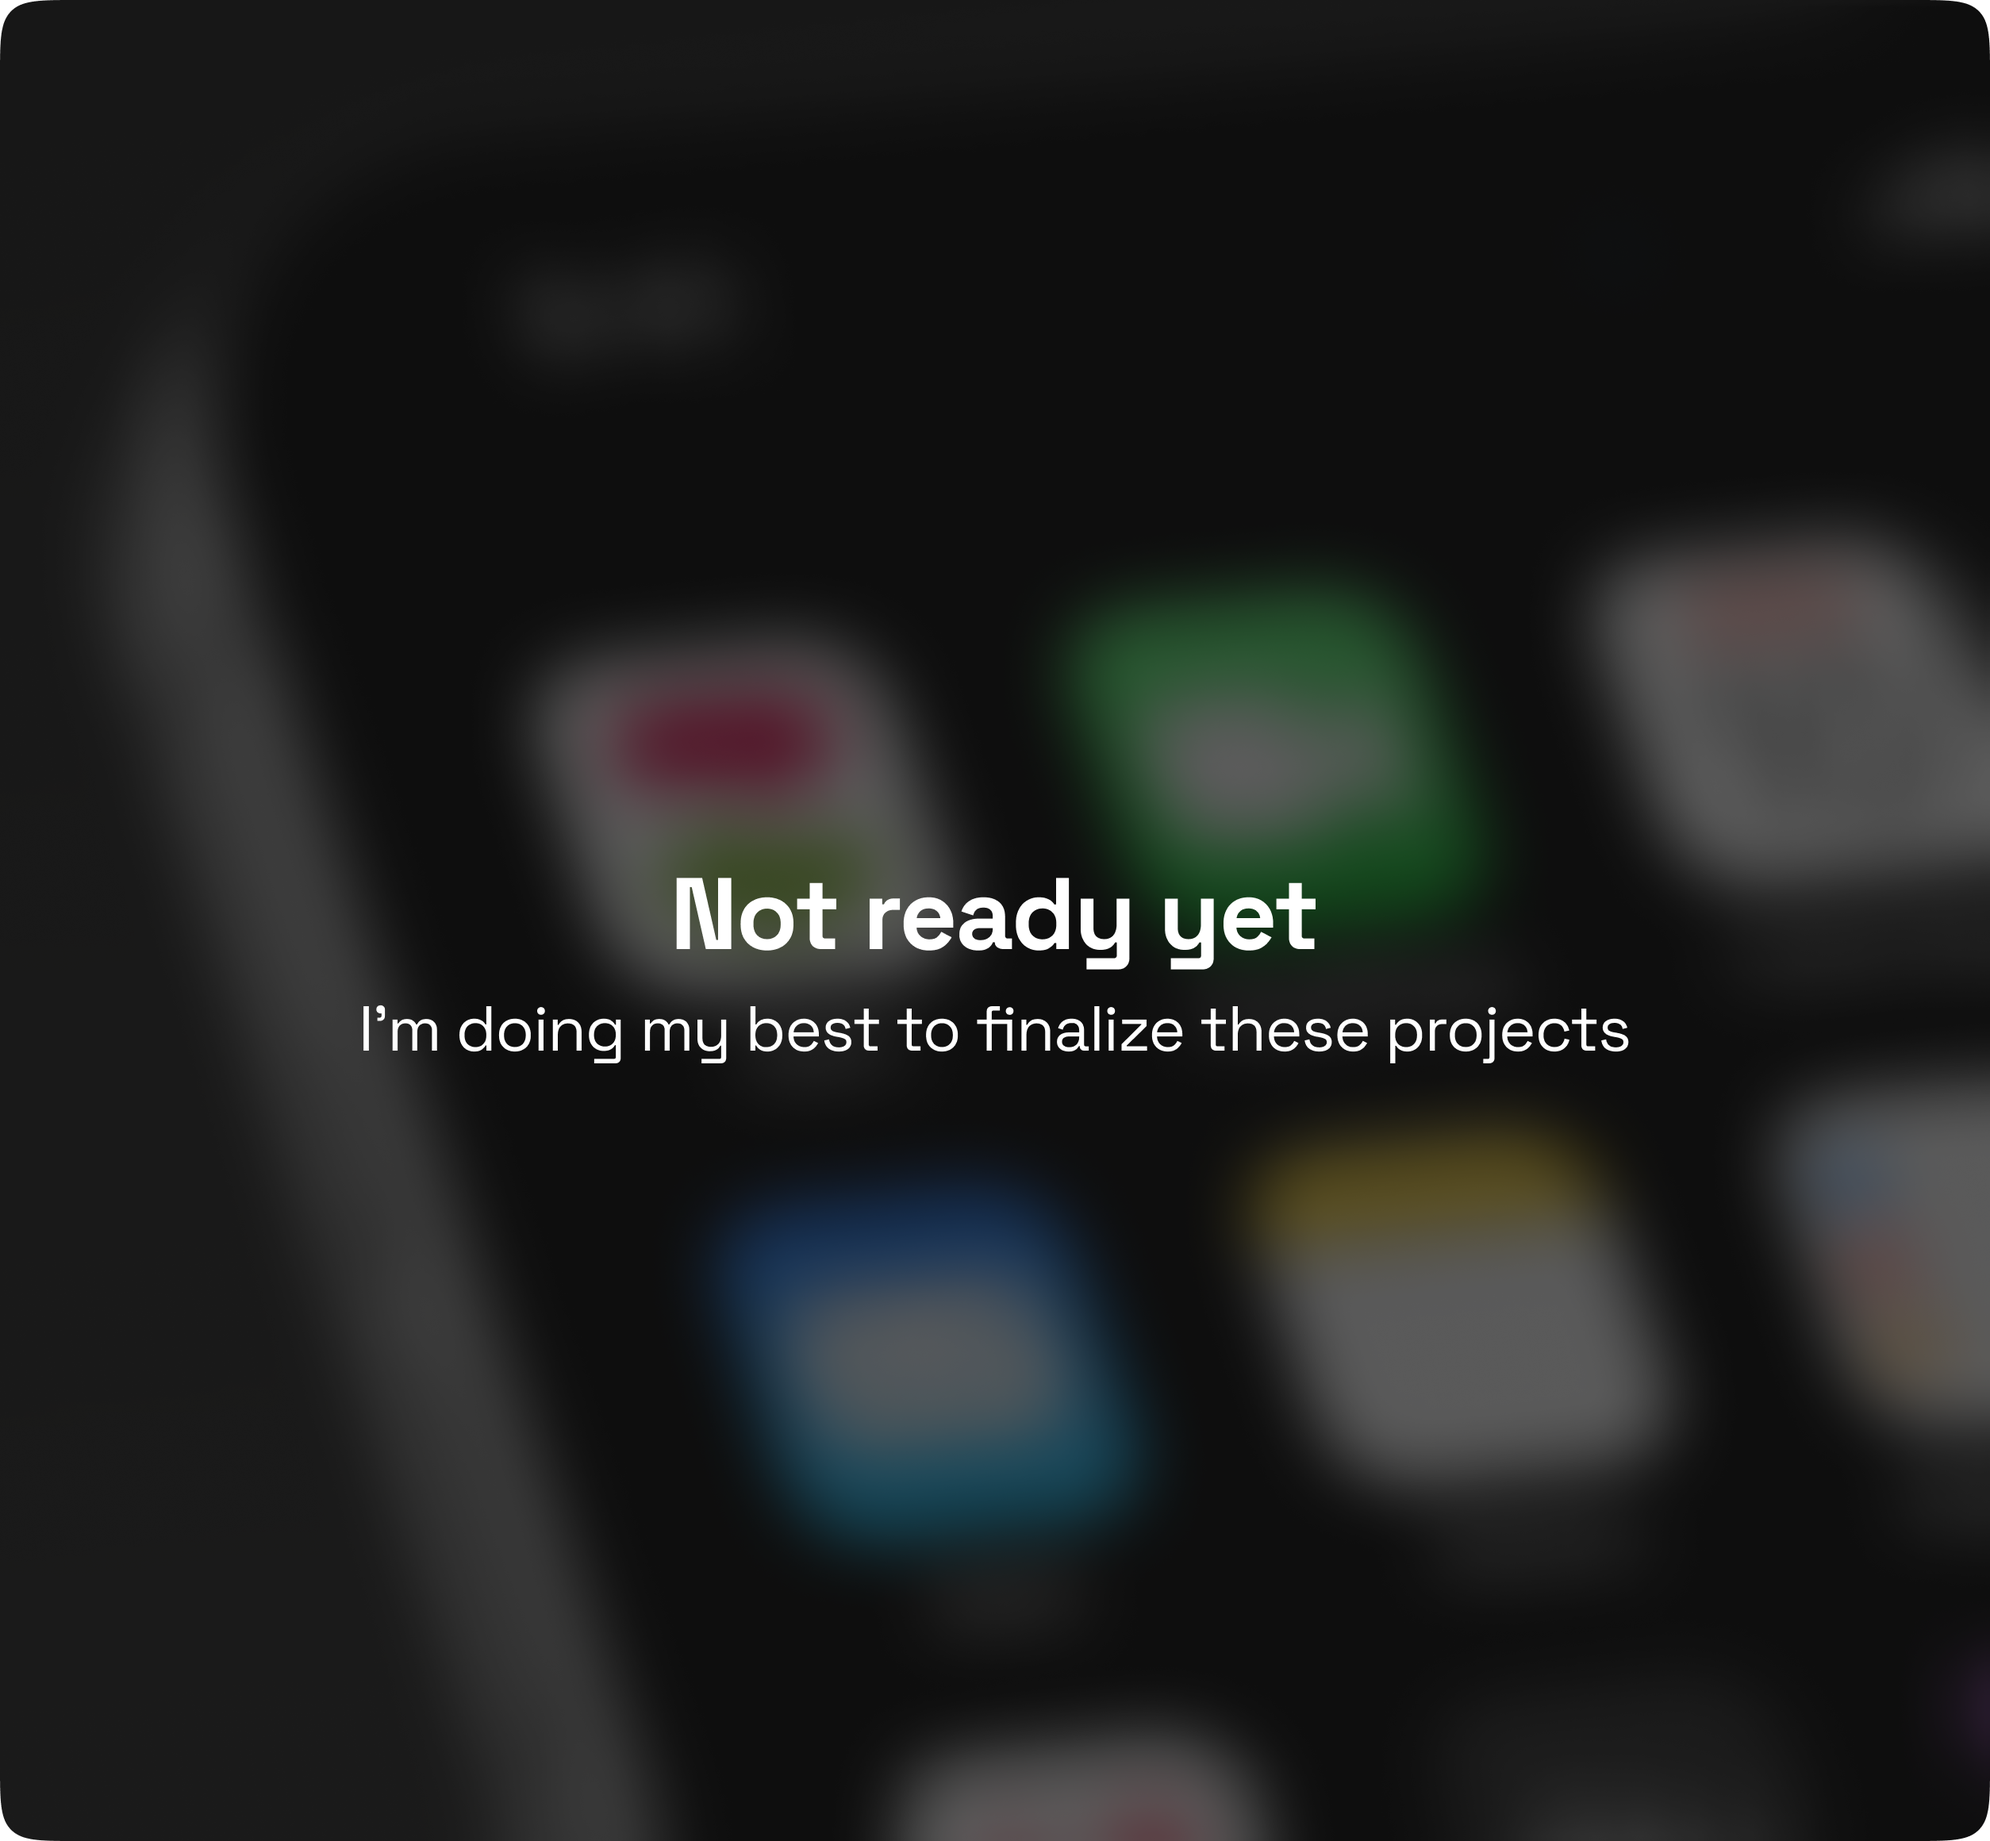
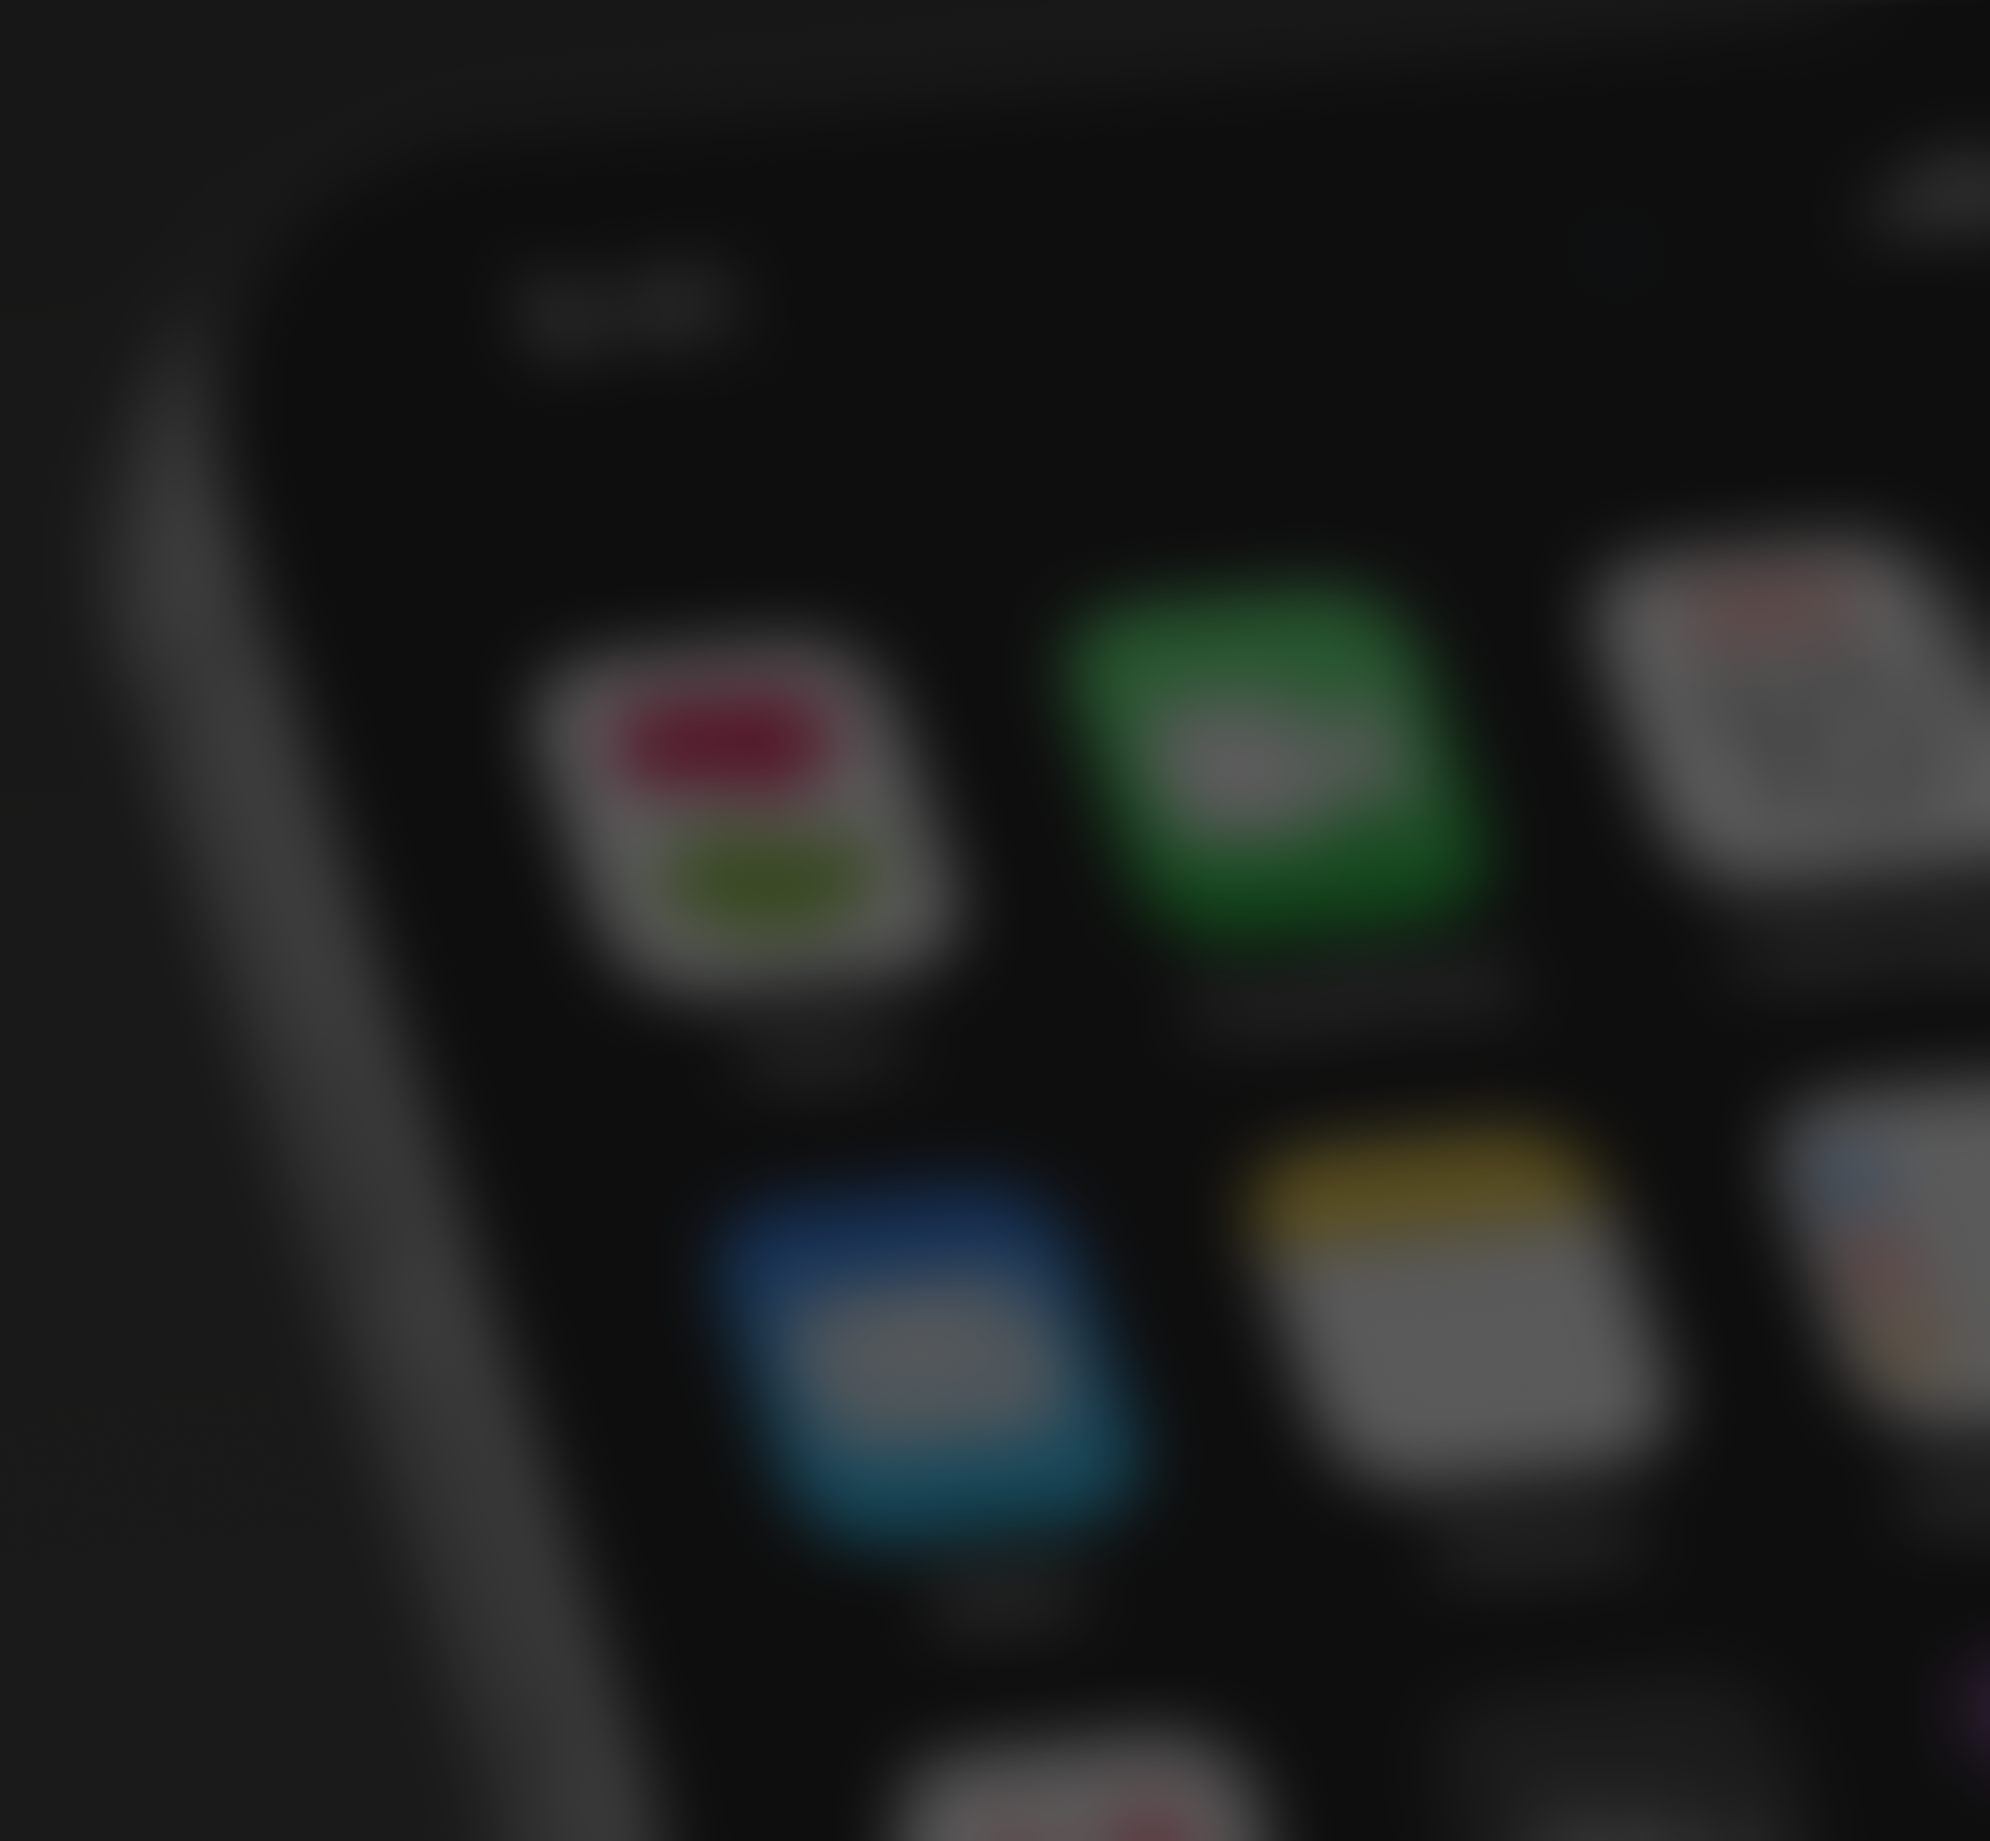
minor bugfix

diff --git a/components/MainCard/Card.tsx b/components/MainCard/Card.tsx
@@ -35,8 +35,16 @@ export default function Card(props: CardProps) {
         <div className={`flex flex-col justify-start items-start gap-1 break-inside-avoid ${props.id == 2 || props.id == 3 || props.id == 6 || props.id == 13 ? "cursor-not-allowed" : "cursor-pointer"} 
             ${props.index != 0 && "lg:mt-6"} ${props.index == 3 ? "2xl:mb-[50rem] lg:mb-[50rem]" : ""}`} 
             onClick={() => handleClick()}>
-            <Image src={props.img} alt="project" width={1000} height={1000} className={`mb-1 lg:min-w-full lg:min-h-full lg:h-full h-[376px] rounded-xl lg:rounded-none object-cover min-w-full transition-opacity opacity-0 duration-200 ${[1, 3].includes(props.id) ? "object-top" : "object-center"} lg:object-center`} 
-                onLoad={(event) => event.currentTarget.classList.remove("opacity-0")} quality={100} priority loading="eager"  />
+            <div className="relative">    
+                <Image src={props.img} alt="project" width={1000} height={1000} className={`mb-1 lg:min-w-full lg:min-h-full lg:h-full h-[376px] rounded-xl lg:rounded-none object-cover min-w-full transition-opacity opacity-0 duration-200 ${[1, 3].includes(props.id) ? "object-top" : "object-center"} lg:object-center`} 
+                    onLoad={(event) => event.currentTarget.classList.remove("opacity-0")} quality={100} priority loading="eager"  />
+                {(props.id == 2 || props.id == 3 || props.id == 6 || props.id == 13) &&
+                    <div className="absolute top-0 left-0 w-full h-full text-white flex justify-center items-center flex-col">
+                        <span className="font-grotesk font-bold text-xl lg:text-3xl">Not ready yet</span>
+                        <p className="font-grotesk text-lg lg:text-xl">I’m doing my best to finalize this project</p>
+                    </div>
+                }
+            </div>
             <span className="lg:text-[1rem] text-sm font-medium">
                 {props.title} 
             </span>
